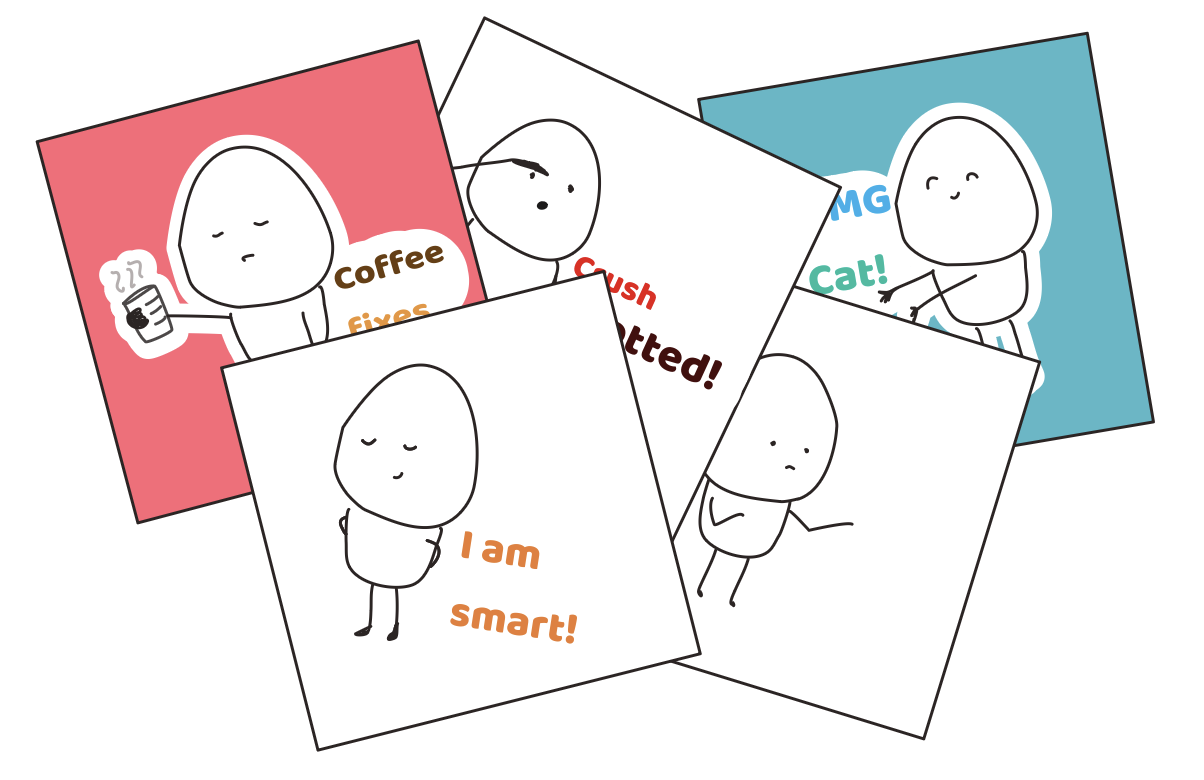
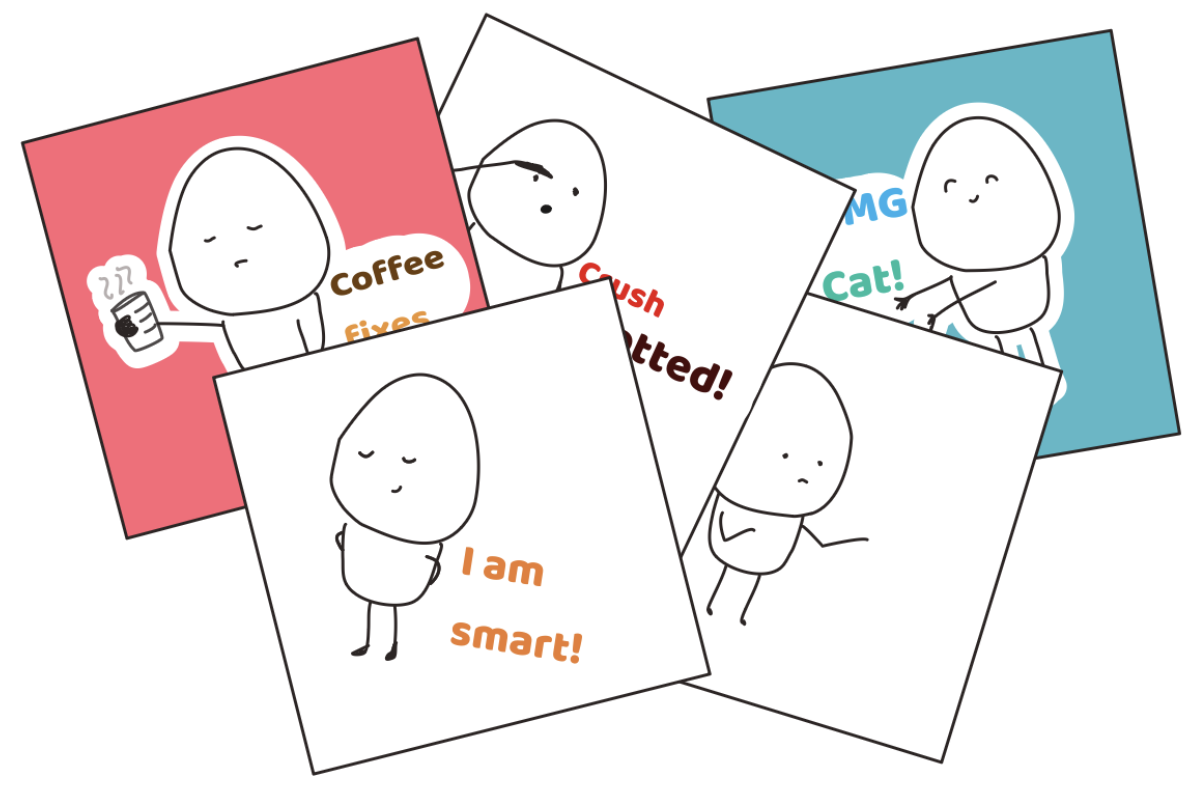
Images replaced, New Items page refactored

diff --git a/PratyushDoodlesApp/templates/index.html b/PratyushDoodlesApp/templates/index.html
@@ -1,32 +1,25 @@
 <!-- about.html -->
 {% extends 'ui/base_page.html' %}
 {% block content %}
-<div class="container text-center pt-5">
+<div class="container text-center pt-5 pb-5">
     <div class="row">
 
         <div class="col-sm d-flex align-items-center justify-content-center">
             <div class="container">
-                <h2>
-                    Stickers!
-                </h2>
-
-                <p class="pt-4">From funky designs that'll make you smile, to cool artwork that's perfect for expressing
-                    yourself, and romantic elements to share your deepest feelings, our Love & Emotions Sticker
-                    Collection is here to add a dash of emotion to your chats.</p>
-
-                <p>Whether you want to make someone's day, express your affection, or simply brighten up your
-                    conversations, our stickers are designed to do just that. Each sticker is crafted with love and a
-                    touch of creativity, aiming to bring joy to your messaging experience.</p>
-
-                <p>So, go ahead and explore our funky, cool, and romantic stickers. Let them speak when words fall
-                    short, and share the love and emotions that make life beautiful.</p>
-
-                <p>Thank you for choosing our stickers to enhance your messages. We hope they bring a smile to your face
-                    and warmth to your heart.</p>
-
+                <h2>Stickers!</h2>
+                <p>Discover our <span style="color: #FF5733; font-weight: bold;">Love</span> & Emotions Sticker
+                    Collection featuring <span style="color: #3333FF; font-weight: bold;">funky</span> designs, <span
+                        style="color: #00CC00; font-weight: bold;">cool</span> artwork, and <span
+                        style="color: #FF0088; font-weight: bold;">romantic</span> elements to elevate your mood.
+                    Express feelings, make someone's day, or brighten conversations with stickers crafted with <span
+                        style="color: #FF5733; font-weight: bold;">love</span> and <span
+                        style="color: #9900CC; font-weight: bold;">creativity</span>. Let them speak when words fail,
+                    and share the beauty of <span style="color: #FF5733; font-weight: bold;">love</span> and <span
+                        style="color: #FF8800; font-weight: bold;">emotions</span>. Thank you for choosing our stickers.
+                </p>
                 <p>Spread the love, one sticker at a time!</p>
 
-
+                <a type="button" class="dark-button" href="{{ url_for('shop.shop') }}"><b>Buy Stckers</b></a>
             </div>
         </div>
         <div class="col-sm">
@@ -43,23 +36,14 @@
                 <h2>
                     Cards!
                 </h2>
-                <p class="pt-4">Do you believe in the magic of movies? We sure do! That's why we're thrilled to
-                    introduce our Movie Magic Card Collection – a perfect blend of cards inspired by our favorite movie
-                    scenes, designed to help you express your emotions and affection in the most cinematic way.</p>
-
-                <p>Each card in this collection is a mini-masterpiece, capturing the essence of iconic movie moments and
-                    combining them with heartfelt messages to make your special someone feel like a star. Whether it's a
-                    romantic gesture, a feel-good message, or a heartwarming note, our cards are your ticket to a truly
-                    unforgettable gift.</p>
-
-                <p>With our Movie Magic Card Collection, you can create moments that are straight out of the silver
-                    screen. Let your loved ones know how much they mean to you and make their day a cinematic experience
-                    they'll treasure forever.</p>
-
-                <p>Thank you for choosing our cards to share your affection and emotions. We hope they bring joy,
-                    laughter, and maybe even a few tears of happiness to those you love.</p>
-
-                <p>Share the magic, one card at a time!</p>
+                <p>Do you believe in the <span style="color: #FF5733; font-weight: bold;">magic</span> of <span
+                        style="color: #FF5733; font-weight: bold;">movies</span>? We sure do! Introducing our <span
+                        style="color: #FF5733; font-weight: bold;">Movie Magic Card Collection</span> – a blend of cards
+                    inspired by favorite <span style="color: #FF5733; font-weight: bold;">movie</span> scenes, designed
+                    to express emotions and affection cinematically.</p>
+                <p>We hope they bring joy, laughter, and maybe even a few tears of happiness.</p>
+                <p>Share the <span style="color: #FF5733; font-weight: bold;">magic</span>, one card at a time!</p>
+                <a type="button" class="dark-button" href="{{ url_for('shop.shop') }}"><b>Buy Cards</b></a>
             </div>
         </div>
     </div>
@@ -87,32 +71,23 @@
                 </h2>
                 <div class="col-sm">
                     <p class="pt-4">If you're in the mood for a good laugh or a touch of boredom (hey, sometimes that's
-                        fun too!), you're in the right place. Pratyush's Doodles is your one-stop destination for a dose
+                        fun too!), you're in the right place.  <br> <b>Pratyush's Doodles</b> is your dose
                         of humor, witty insights, and a dash of randomness through our comics.</p>
-
-                    <p>From funny anecdotes that'll have you chuckling in no time to the "boring" ones (which we promise
-                        are at least a bit intriguing), we've got a wide range of comics to cater to your every mood.
-                        Our goal is simple: to brighten your day, one comic at a time.</p>
-
-                    <p>So why wait? Come join us on this comic journey, and let's share some smiles together. Just click
-                        below and get ready for a rollercoaster of emotions – from laughter to "hmm, that's
-                        interesting."</p>
-
-                    <p>Thanks for stopping by Pratyush's Doodles. We're excited to have you on board and can't wait to
-                        share our quirky world with you!</p>
 
                     <p>Keep doodling, keep smiling!</p>
 
-                    <p><a href="https://www.instagram.com/pratyush.doodles/" target="_blank">Visit Pratyush's Doodles on
-                            Instagram</a></p>
                 </div>
             </div>
         </div>
     </div>
-    <div class="row mt-5 mb-5">
+    <div class="row mb-5">
         <div class="col-sm">
-            <img class="img-fluid" src="{{ url_for('static', filename='images/about_commics.png') }}" alt="">
+            <img class="img-fluid" style="width: 600px;" src="{{ url_for('static', filename='images/about_commics.png') }}" alt="">
         </div>
+    <p class="mt-5">
+       Follow us on <a class="mb-5 mt-5" href="https://www.instagram.com/pratyush.doodles/" target="_blank"><img style="width: 200px;" src="{{ url_for('static', filename='images/ic_instagram.png') }}"
+            alt=""></a> to stay updated :)
+    </p>
     </div>
 </div>
 {% endblock content %}
